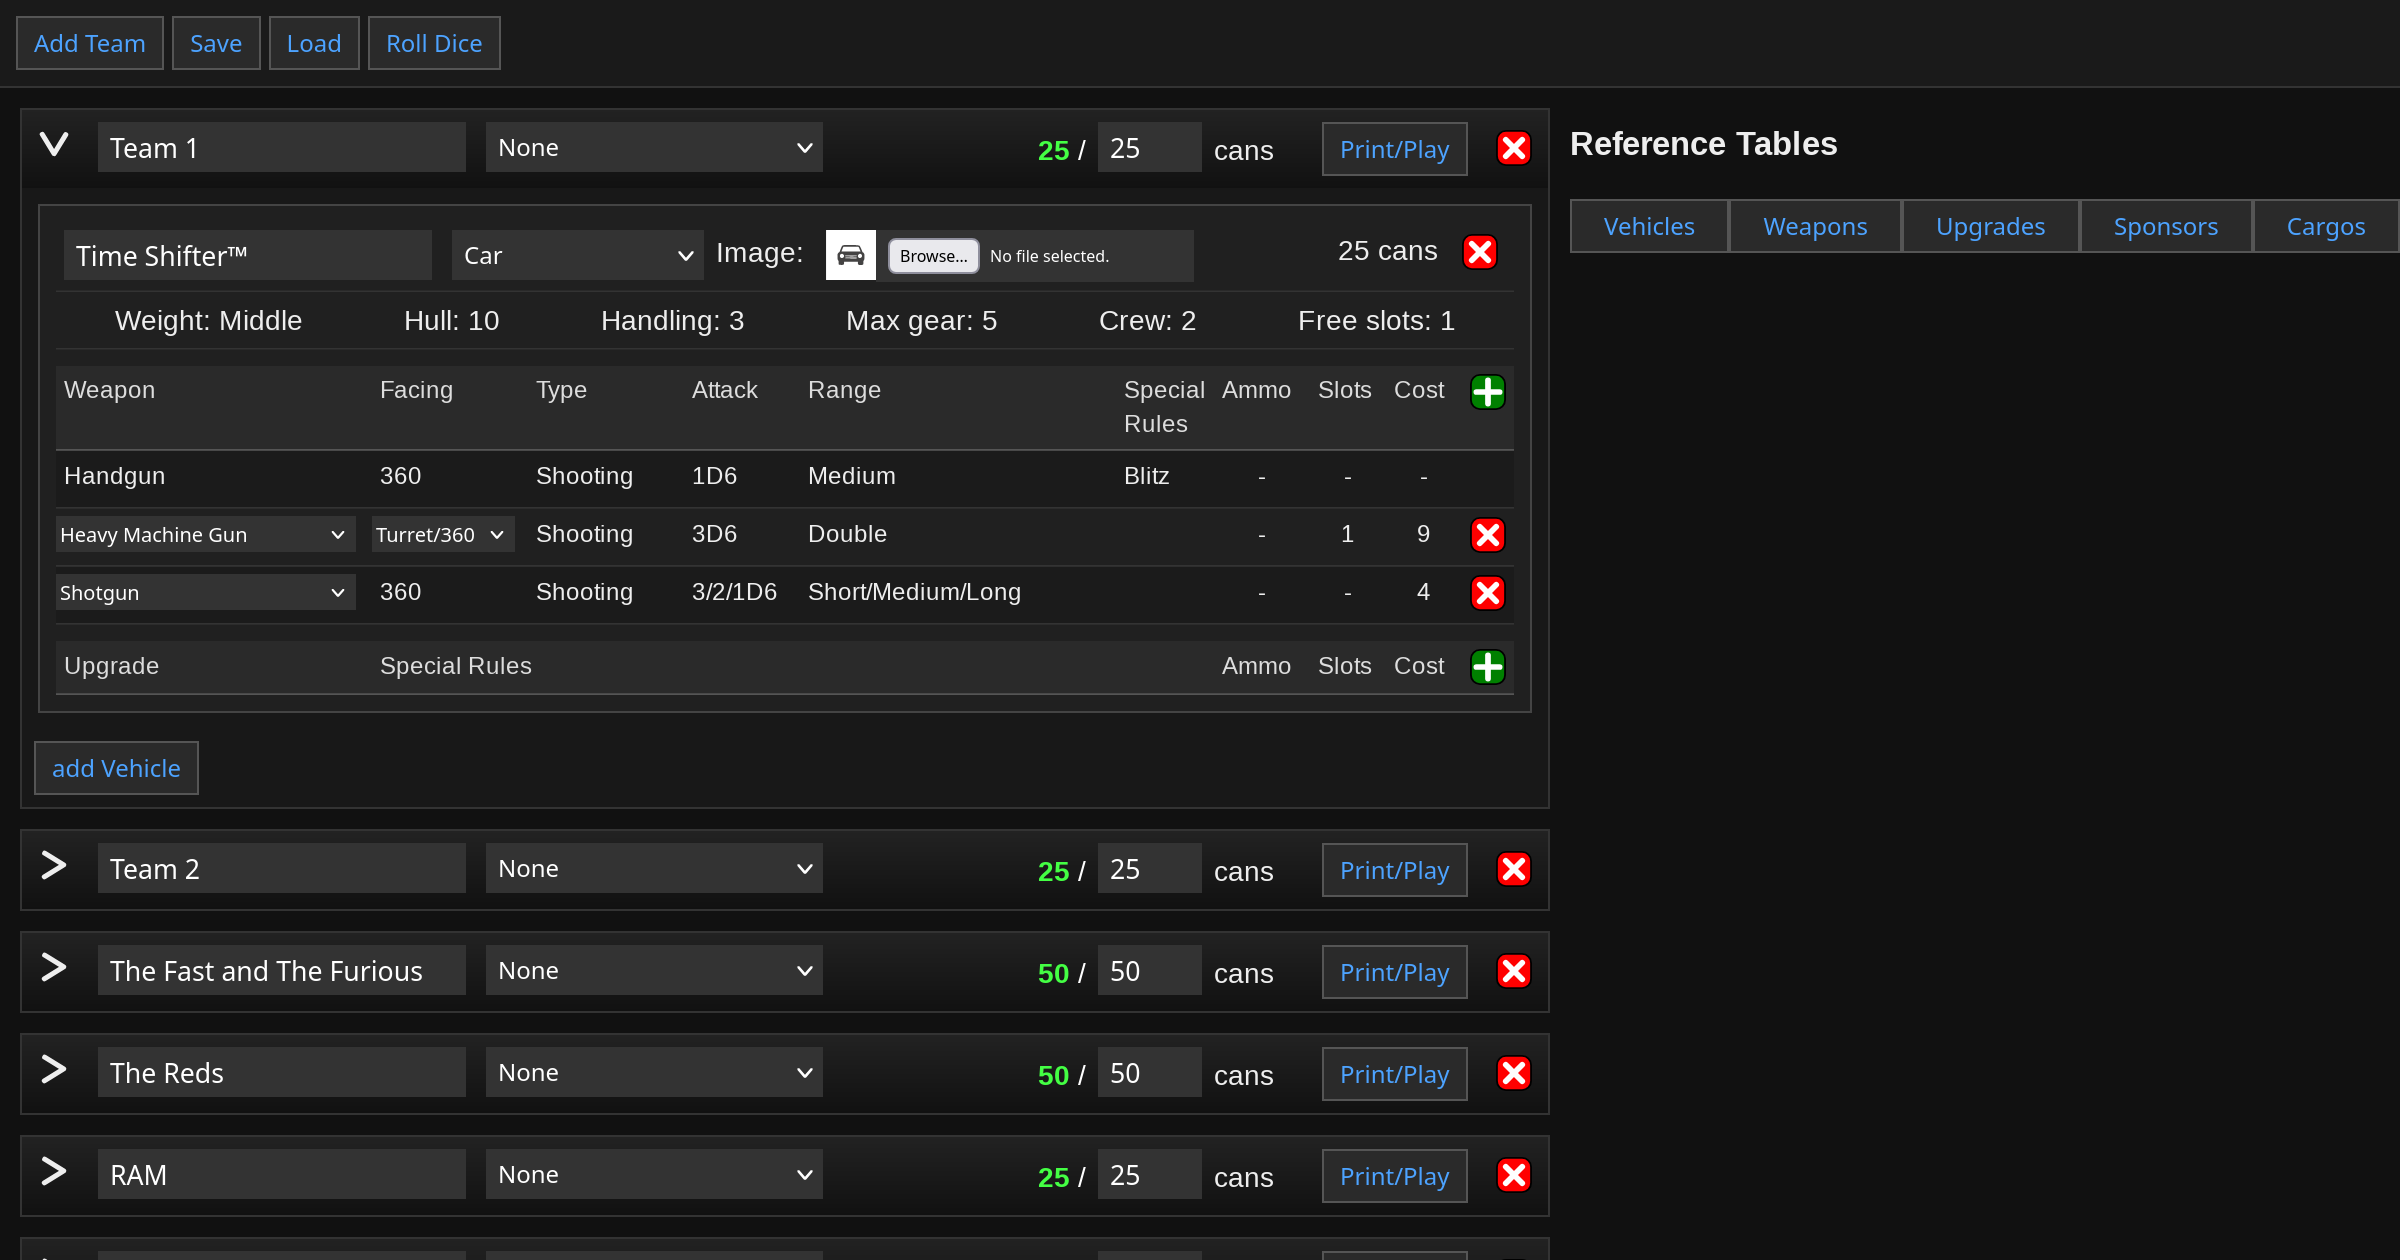
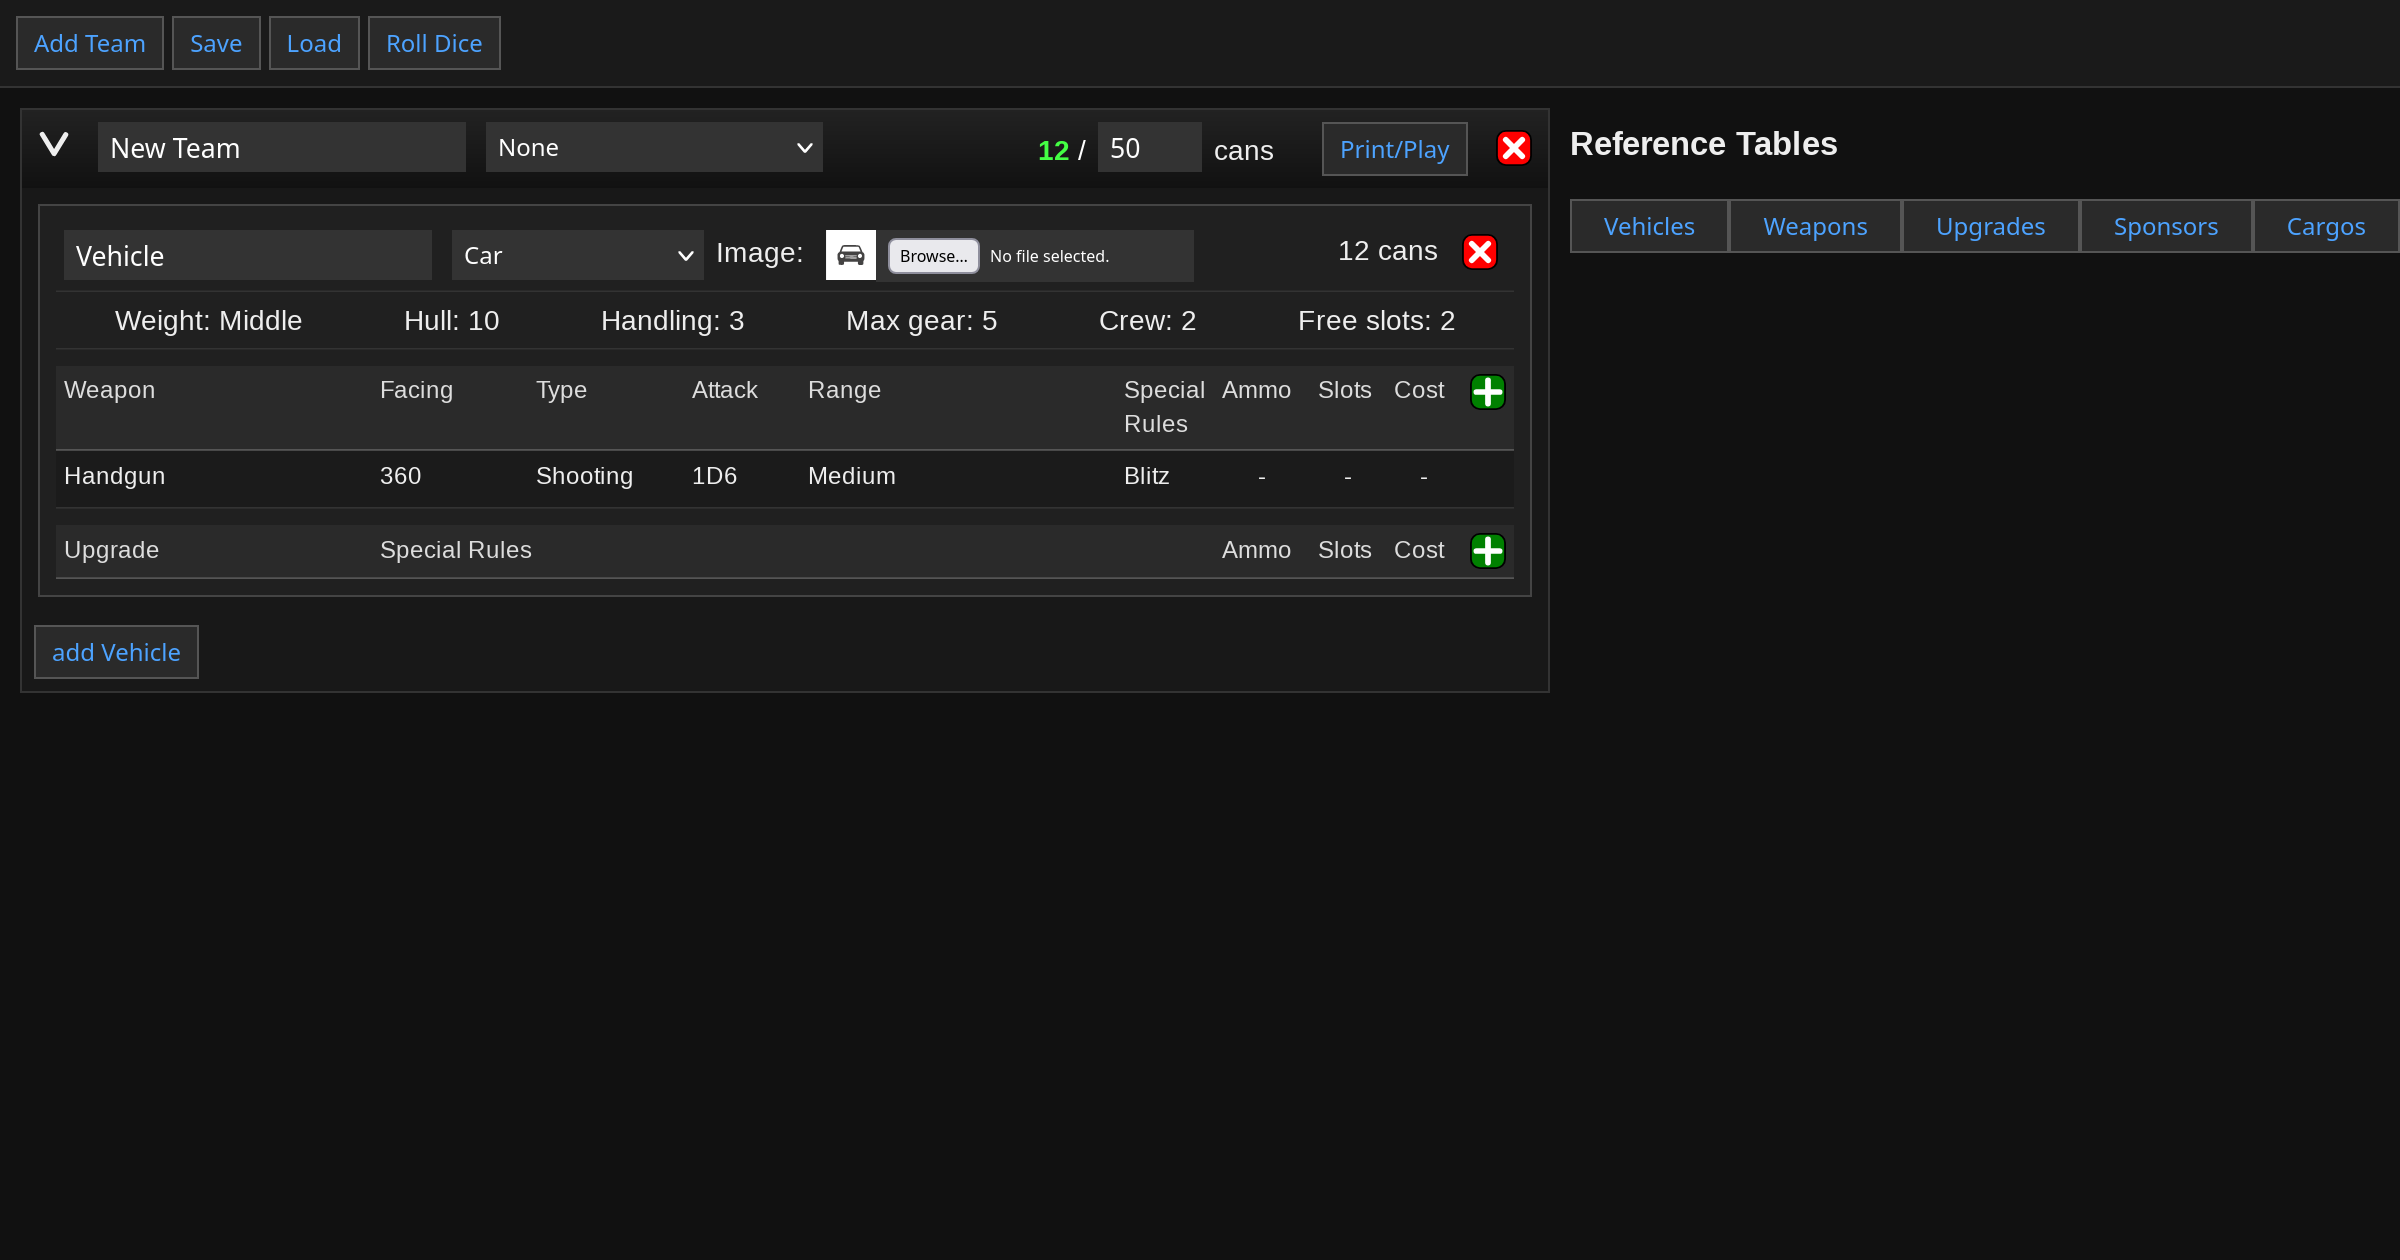
changed screenshot

diff --git a/js/render.js b/js/render.js
@@ -286,14 +286,24 @@ async function createTeamCard(team, ti) {
         ]),
       ]),
       el("div", { class: "teamHeadPrintPlay" }, [
-        el("button", { onclick: (e) => openPrintPreview(e, ti) }, [
-          "Print/Play",
-        ]),
+        el(
+          "button",
+          {
+            onclick: (e) => {
+              e.stopPropagation();
+              openPrintPreview(ti);
+            },
+          },
+          ["Print/Play"],
+        ),
       ]),
 
       el("div", { class: "teamHeadRemove" }, [
         el("img", {
-          onclick: () => removeTeam(ti),
+          onclick: (e) => {
+            e.stopPropagation();
+            removeTeam(ti);
+          },
           class: "removeButton",
           class: "removeButton",
         }),

diff --git a/js/app.js b/js/app.js
@@ -78,8 +78,7 @@ async function setPrintMode(enabled) {
   }
 }
 
-export async function openPrintPreview(e, i) {
-  e.stopPropagation();
+export async function openPrintPreview(i) {
   state.currentTeamIndex = i;
   saveState();
   await setPrintMode(true);
